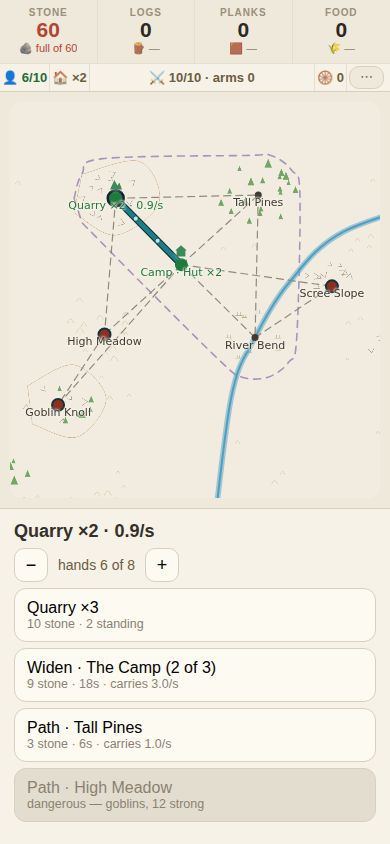
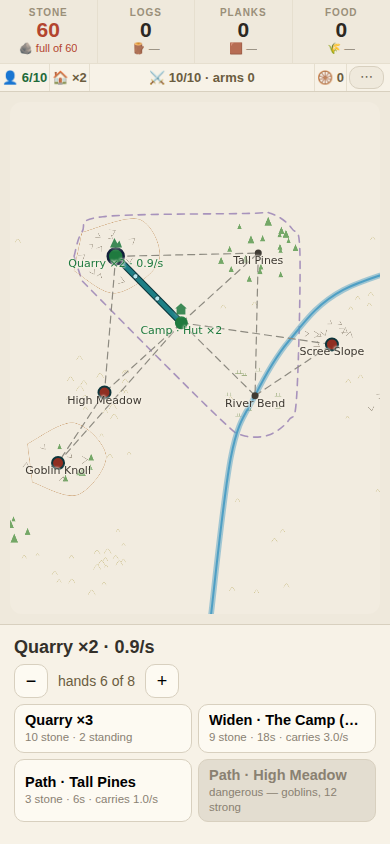
THE DOCK: two columns, half the height, same thumb
The owner, playing on the phone: 'can you work on the horizontal buttons
at the bottom now, they take too much space.'

They did. Each deed was a full-width card - name over price over 10px of
padding, 54px each - so the list ran to 234px of an 844px screen with
only four deeds showing, and 556px at the camp.

Two columns now, which is the answer the battle strip already reached for
exactly this reason ('.verbs': four stacked full-width deeds pushed the
strip off small screens). The dock uses that precedent rather than
inventing a second one.

Measured on the owner's own viewport:

  4 deeds  234px -> 118px
  10 deeds 556px -> 340px
  the map  374px -> 490px

EVERY ROW IS STILL 44px MINIMUM. The list is shorter; the tap target is
not. Shaving that is how a compact list becomes one you cannot hit.

TWO THINGS THE SCREENSHOTS CAUGHT THAT NO CHECK WOULD HAVE:

  The right column ran off the screen edge, cutting 'Widen . The Camp
  (1 of 3)' to '(1 of'. The base .deed rule sets width:100% and this app
  has no box-sizing:border-box reset anywhere, so inside a grid cell
  every row came out 22px wider than its column. Fixed on .deed.row
  only - a global reset was not worth the blast radius.

  The new 44px check was VACUOUS. Every deed carries two lines of text
  and comes out 49-63px unaided, so min-height could be dropped to 28px
  and the check still passed - proven exactly that way. It reads the
  computed min-height now, which is the rule that protects a thumb.
[…]

diff --git a/src/ui/Camp.svelte b/src/ui/Camp.svelte
@@ -606,12 +606,22 @@
             {/if}
           </div>
         {/if}
+        <div class="deeds">
         {#each deeds as d (d.label)}
-          <button class="deed" disabled={d.why !== null} onclick={d.go}>
-            {d.label}
+          <!-- ★ ONE LINE PER DEED, 2026-08-09. The owner, on the phone: *"the
+               horizontal buttons at the bottom, they take too much space."*
+               They did — label over note over 10px of padding is ~67px of a
+               844px screen EACH, so five deeds ate a third of the phone and
+               the map got what was left. Name left, price right, one row.
+               ⚠ STILL 44px TALL. The row is shorter but the TAP TARGET is
+               not: that is the floor a thumb needs, and shaving it is how a
+               compact list becomes a list you cannot hit. -->
+          <button class="deed row" disabled={d.why !== null} onclick={d.go}>
+            <span class="what">{d.label}</span>
             <em>{d.note}</em>
           </button>
         {/each}
+        </div>
       {:else}
         <p class="note">Tap a site.</p>
       {/if}
@@ -694,6 +704,32 @@
     padding: 10px 12px; margin: 6px 0; }
   .deed:disabled { background: #e3ddd0; color: #8a8172; }
   .deed em { display: block; font-style: normal; font-size: 12.5px; color: #8a8172; }
+
+  /* ★★ TWO COLUMNS, 2026-08-09 — the owner, on the phone: *"the horizontal
+     buttons at the bottom, they take too much space."* Full-width rows were
+     54px each and the list ran to 234px of an 844px screen; the map got 374.
+     This is the same answer the battle strip already reached for the same
+     reason (`.verbs`, "four stacked full-width deeds pushed the strip off
+     small screens") — so the dock now uses the precedent instead of
+     inventing a second one. */
+  .deeds { display: grid; grid-template-columns: 1fr 1fr; gap: 6px; margin: 6px 0; }
+  /* ⚠ `box-sizing` AND `width:auto` ARE LOAD-BEARING HERE. The base `.deed`
+     rule sets `width:100%`, and there is no border-box reset anywhere in this
+     app — so inside a grid cell each row came out 22px wider than its column
+     (100% + 10px padding each side + 1px border each side) and the right-hand
+     column ran off the screen edge, cutting "Widen · The Camp (1 of 3)" to
+     "(1 of". Caught in the screenshot, not by any check. */
+  .deed.row { display: flex; flex-direction: column; justify-content: center;
+    align-items: flex-start; gap: 1px; min-height: 44px; margin: 0;
+    box-sizing: border-box; width: auto; min-width: 0;
+    padding: 7px 10px; font-size: 14.5px; border-radius: 10px; line-height: 1.2; }
+  /* ⚠ THE NAME MAY ELLIPSISE, THE PRICE MAY NOT. A deed you cannot afford
+     has to say what it wants — that is the entire job of the second line —
+     so it wraps rather than truncating, and the cell grows to fit it. */
+  .deed.row .what { max-width: 100%; overflow: hidden;
+    text-overflow: ellipsis; white-space: nowrap; font-weight: 600; }
+  .deed.row em { display: block; font-size: 11.5px; line-height: 1.25;
+    max-width: 100%; white-space: normal; overflow-wrap: anywhere; }
   .crew { display: flex; align-items: center; gap: 10px; margin: 6px 0; }
   .crew span { font-size: 14px; color: #6b5d3f; }
   .crew button { font: inherit; font-size: 18px; line-height: 1; width: 34px; height: 34px;

diff --git a/docs/DECISIONS.md b/docs/DECISIONS.md
@@ -1856,3 +1856,4 @@ Entries above this line are long because the one-line rule did not exist yet.
 - 2026-08-08 — **STARVING READS DELIVERY, NOT HARVEST** (coherence review's third finding). The test was `hunger(g) > farmRaw`, food standing in the FIELDS, so a farm with a choked path home counted as feeding the town — and the failure was silent: empty larder, no warning, no halt, every works flat out on rations that never arrived (sabotage header: `0 food −1.7/s +0.5/s`). Delivery is only known after routing and routing is what the halt changes, so `flow` now extracts the whole haulage into `deliver(made)` and runs it TWICE: once as the town runs normally to decide starvation from what actually got home, and again with non-farms zeroed if it is starving. The second run is the MECHANISM, not the penalty — halting the quarries frees the paths the food was stuck behind, so a town delivering 1.2/s against a 1.7/s appetite delivers 3.0/s once the works stop competing for the road. Returned `made` is the halted run's, so a halted quarry reads 0.0/s instead of pretending to work.
 - 2026-08-09 — **THE BARRIER** (owner, on a design mock: *"yeah in noobtown he's had a barrier"*). A dashed ward enclosing every stop with no goblins on it, `src/camp/barrier.ts`, pure geometry. It draws a fact the game already had rather than adding a quantity: liberating a holding pushes the line out (>10% area on the first, measured), which is the first time taking ground is visible from across the room. Hull over a ring of sample points per held stop, so one/two/nine stops need no special cases. ⚠ NOT THE MOCK'S TEAL — `route` is teal and the probe counts it, so a teal region would have corrupted the road-fill check; the ward is violet at 56 from its nearest counted ink, measured before picking. ⚠ AND NO FILL — a 7%-alpha wash tints the carrier dots the probe measures and fired "the carriers do not walk" on a good build; only running the probe caught it. The rest of the mock (HUD resource columns, status row, one primary action, bottom nav) is evaluated and unbuilt.
 - 2026-08-09 — **THE HUD REBUILT** to the owner's design mock: four goods across the top (STONE/LOGS/PLANKS/FOOD, label + value + icon + rate) and four standings under them (people/huts/hero/carts), replacing one wrapped run-on line with every quantity at equal weight. The stone column is the tap target — a whole column instead of a chip. Three states had to survive and are pinned: full store, STARVING, and the tap rate. Every cell carries `data-q` and the probe now reads CELLS instead of regexing the whole header — the old checks were coupled to the order and punctuation of the run-on line, and one could not see the population cap at all (the captives walk home into a camp with room for two, which the old string hid). Two defects caught by looking at the screenshots: the gear sat on the FOOD column and clipped its label to "FOO" (it is a trailing auto column in the standings row now), and four equal standings columns clipped the hero's arms count (uneven columns now, hero takes the slack). ⚠ ALSO FIXED A CHECK THIS DESTABILISED: "the carriers do not walk" measured the CENTROID of carrier ink against a 0.4px threshold, but dots entering and leaving a path cancel out so the centre moves only ~0.3px — it failed on good builds and passed on others, and the new header height perturbed it enough to fire twice. It measures the raw position sum now: 30–65% on a walking board, 0.000% frozen, three consecutive green runs.
+- 2026-08-09 — **THE DOCK HALVED** (owner, playing on the phone: *"the horizontal buttons at the bottom, they take too much space"*). Full-width deed cards were 54px each — 234px of an 844px screen for four, 556px for the camp's ten. Two columns now, the same answer `.verbs` already reached for the same reason, so the dock follows the precedent instead of inventing a second one. Measured: 4 deeds 234→118px, 10 deeds 556→340px, map 374→490px. Rows stay 44px minimum — the list is shorter, the tap target is not. ⚠ Two defects found by LOOKING at the screenshot, not by any check: the right column overflowed the screen edge and cut "Widen · The Camp (1 of 3)" to "(1 of", because the base `.deed` rule is `width:100%` and this app has NO border-box reset anywhere (fixed on `.deed.row` only — a global reset was not worth the blast radius); and the new 44px probe check was VACUOUS, since two lines of text make every deed 49–63px unaided and min-height could drop to 28px unnoticed — proven exactly that way, so it reads the computed min-height now.

diff --git a/docs/CITY.md b/docs/CITY.md
@@ -415,3 +415,43 @@ dots entering and leaving cancel out and the centre moves ~0.3px — it
 height perturbed it enough to fire twice. It now measures the raw sum of
 positions, where the same walk reads 30–65% against a 0.05% threshold, and
 0.000% when the animation is frozen. Three consecutive green runs.
+
+
+## ★★ THE DOCK — halved 2026-08-09
+
+> *"can you work on the horizontal buttons at the bottom now, they take too
+> much space"* — the owner, playing on the phone.
+
+They did. Each deed was a full-width card, name over price over 10px of
+padding, **54px each**, so the list ran to 234px of an 844px screen with
+only four deeds showing and 400px+ at the camp.
+
+Two columns now, which is **the answer the battle strip already reached for
+the same reason** (`.verbs`, *"four stacked full-width deeds pushed the strip
+off small screens"*) — the dock uses the precedent rather than inventing a
+second one.
+
+Measured on the owner's own screen, at the busiest site:
+
+| | one column | two columns |
+|---|---|---|
+| 4 deeds (the mill) | 234px | **118px** |
+| 10 deeds (the camp) | 556px | **340px** |
+| map gets | 374px | **490px** |
+
+⚠ **Every row is still 44px minimum.** The list is shorter; the tap target
+is not. Shaving that is how a compact list becomes a list you cannot hit.
+
+### Two things the screenshots caught that no check would have
+
+1. **The right column ran off the screen edge**, cutting `Widen · The Camp
+   (1 of 3)` to `(1 of`. The base `.deed` rule sets `width: 100%` and **this
+   app has no `box-sizing: border-box` reset anywhere** — so inside a grid
+   cell every row came out 22px wider than its column. `.deed.row` sets
+   `border-box` and `width: auto`; a global reset was not worth the blast
+   radius.
+2. The measured-height check for the 44px floor was **vacuous**: every deed
+   carries two lines of text and comes out 49–63px unaided, so the
+   `min-height` could be dropped to 28px with nothing noticing. Proven
+   exactly that way. The probe reads the computed `min-height` now, which is
+   the rule that actually protects a thumb.
